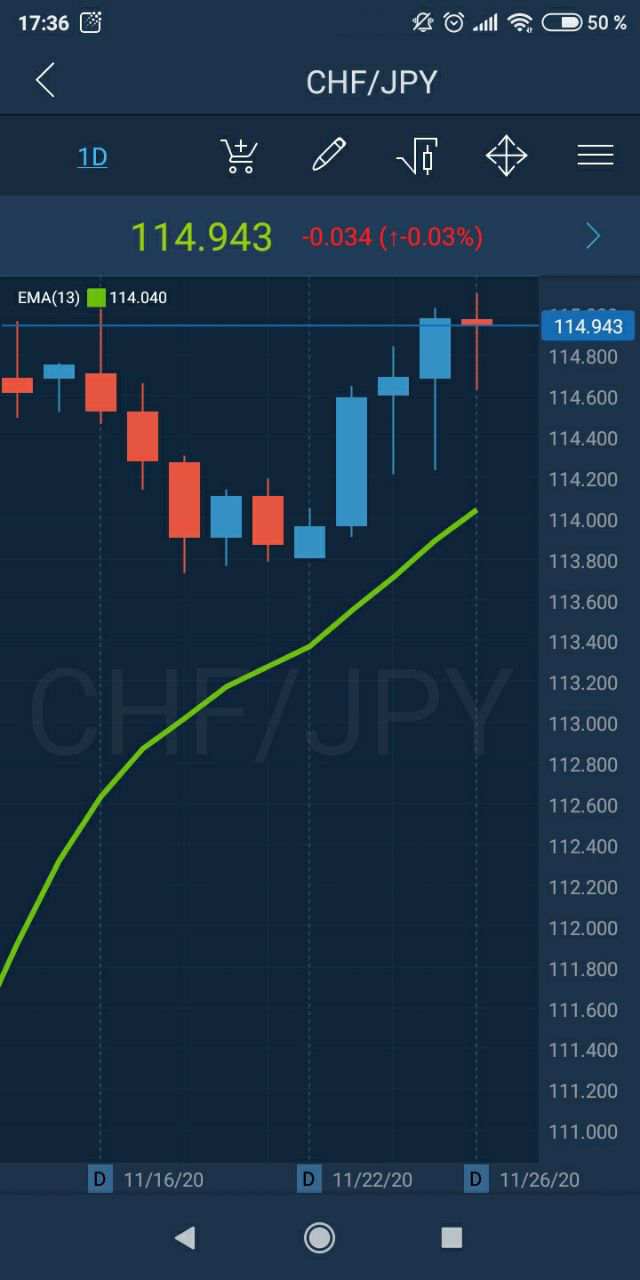
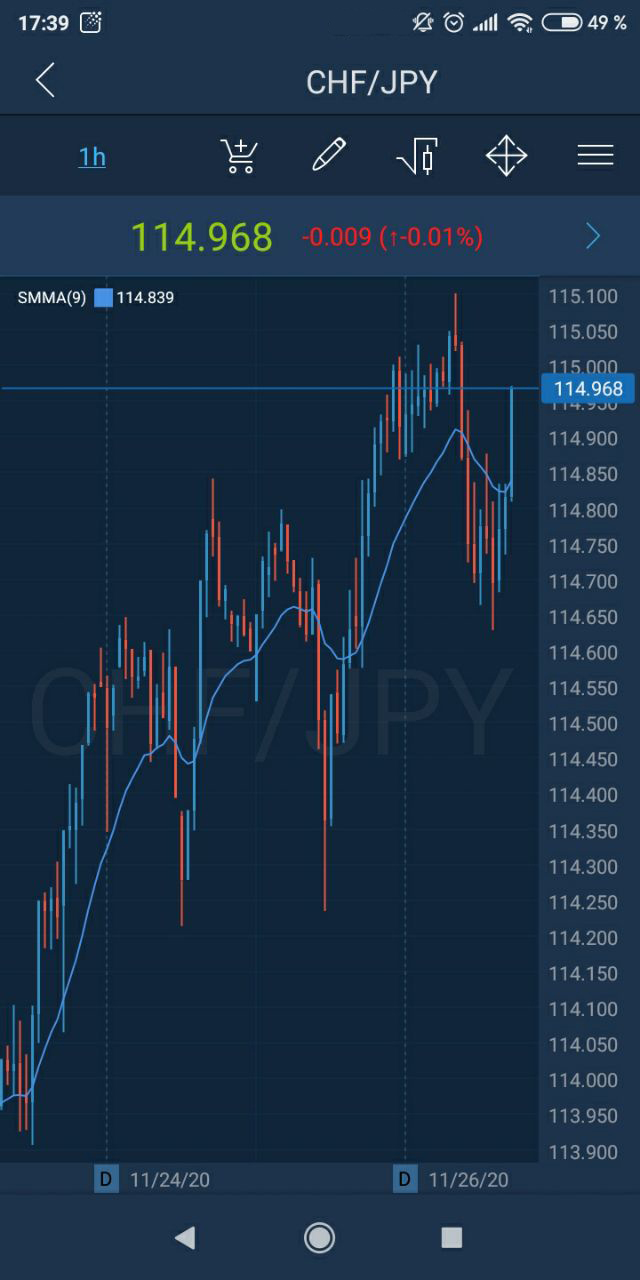
GitBook: [master] 3 pages and 3 assets modified

diff --git a/mobile-applications/phone/android/technical-indicators/moving-averages/smma-smoothed-moving-average.md b/mobile-applications/phone/android/technical-indicators/moving-averages/smma-smoothed-moving-average.md
@@ -1,0 +1,53 @@
+# SMMA \(Smoothed moving average\)
+
+The Smoothed moving average is a kind of mix of a simple moving average and an exponential moving average, but with a longer period \(about half the EMA period: for example, a 20-period SMMA is almost equal to a 40-period EMA\).
+
+This moving average is used to monitor price changes. The effect of the moving average is to smooth out the price movement so that the long-term trend becomes less volatile and therefore more obvious. When the price rises above the moving average, it indicates that investors are becoming bullish on the commodity. When prices fall lower, it indicates a bearish commodity. In addition, when the moving average crosses the longer-term moving average, research indicates a downward reversal of the market. When the short-term moving average crosses the longer-term moving average, it indicates an upswing in the market. The longer the period of the moving average, the smoother the price movement. Longer moving averages are used to highlight long-term trends.
+
+### Calculation
+
+The first value of the Smoothed moving average is calculated as the simple moving average \(SMA\):
+
+SUM1 = SUM \(CLOSE \(i\), N\)
+
+SMMA1 = SUM1 / N
+
+The second moving average is calculated according to this formula:
+
+SMMA \(i\) = \(SMMA1\*\(N-1\) + CLOSE \(i\)\) / N
+
+Subsequent moving averages are calculated using the following formula:
+
+PREVSUM = SMMA \(i - 1\) \* N
+
+SMMA \(i\) = \(PREVSUM - SMMA \(i - 1\) + CLOSE \(i\)\) / N
+
+Where:
+
+SUM — sum;
+
+SUM1 — total sum of closing prices for N periods; counted from the previous bar;
+
+PREVSUM — smoothed sum of the previous bar;
+
+SMMA \(i-1\) — smoothed moving average of the previous bar;
+
+SMMA \(i\) — smoothed moving average of the current bar \(except for the first one\);
+
+CLOSE \(i\) — current close price;
+
+N — smoothing period.
+
+After arithmetic conversions, the formula can be simplified:
+
+SMMA \(i\) = \(SMMA \(i - 1\) \* \(N - 1\) + CLOSE \(i\)\) / N
+
+### Main parameters
+
+* Interval of smoothed moving average – allows specifying the number of periods, over which the indicator is calculated;
+* Apply to – determines the type of price at which the moving average is calculated, available values: Close, Open, High, Low, Median, Typical, Weighted.
+
+The indicator looks as follows on the chart:
+
+![](../../../../../.gitbook/assets/1%20%285%29.jpg)
+

diff --git a/SUMMARY.md b/SUMMARY.md
@@ -198,6 +198,7 @@
         * [Moving averages](mobile-applications/phone/android/technical-indicators/moving-averages/README.md)
           * [EMA \(Exponential moving average\)](mobile-applications/phone/android/technical-indicators/moving-averages/ema-exponential-moving-average.md)
           * [MMA \(Modified moving avergae\)](mobile-applications/phone/android/technical-indicators/moving-averages/mma-modified-moving-avergae.md)
+          * [SMMA \(Smoothed moving average\)](mobile-applications/phone/android/technical-indicators/moving-averages/smma-smoothed-moving-average.md)
       * [Order entry](mobile-applications/phone/android/order-entry.md)
       * [Orders](mobile-applications/phone/android/orders.md)
       * [Trading ideas](mobile-applications/phone/android/trading-ideas.md)

diff --git a/mobile-applications/phone/android/technical-indicators/channels/bb-bollinger-bands.md b/mobile-applications/phone/android/technical-indicators/channels/bb-bollinger-bands.md
@@ -55,7 +55,7 @@ It is recommended to use 20-period Simple Moving Average as the middle line, and
 
 The indicator looks as follows on the chart:
 
-![](../../../../../.gitbook/assets/1%20%286%29.jpg)
+![](../../../../../.gitbook/assets/1%20%287%29.jpg)
 
 
 
